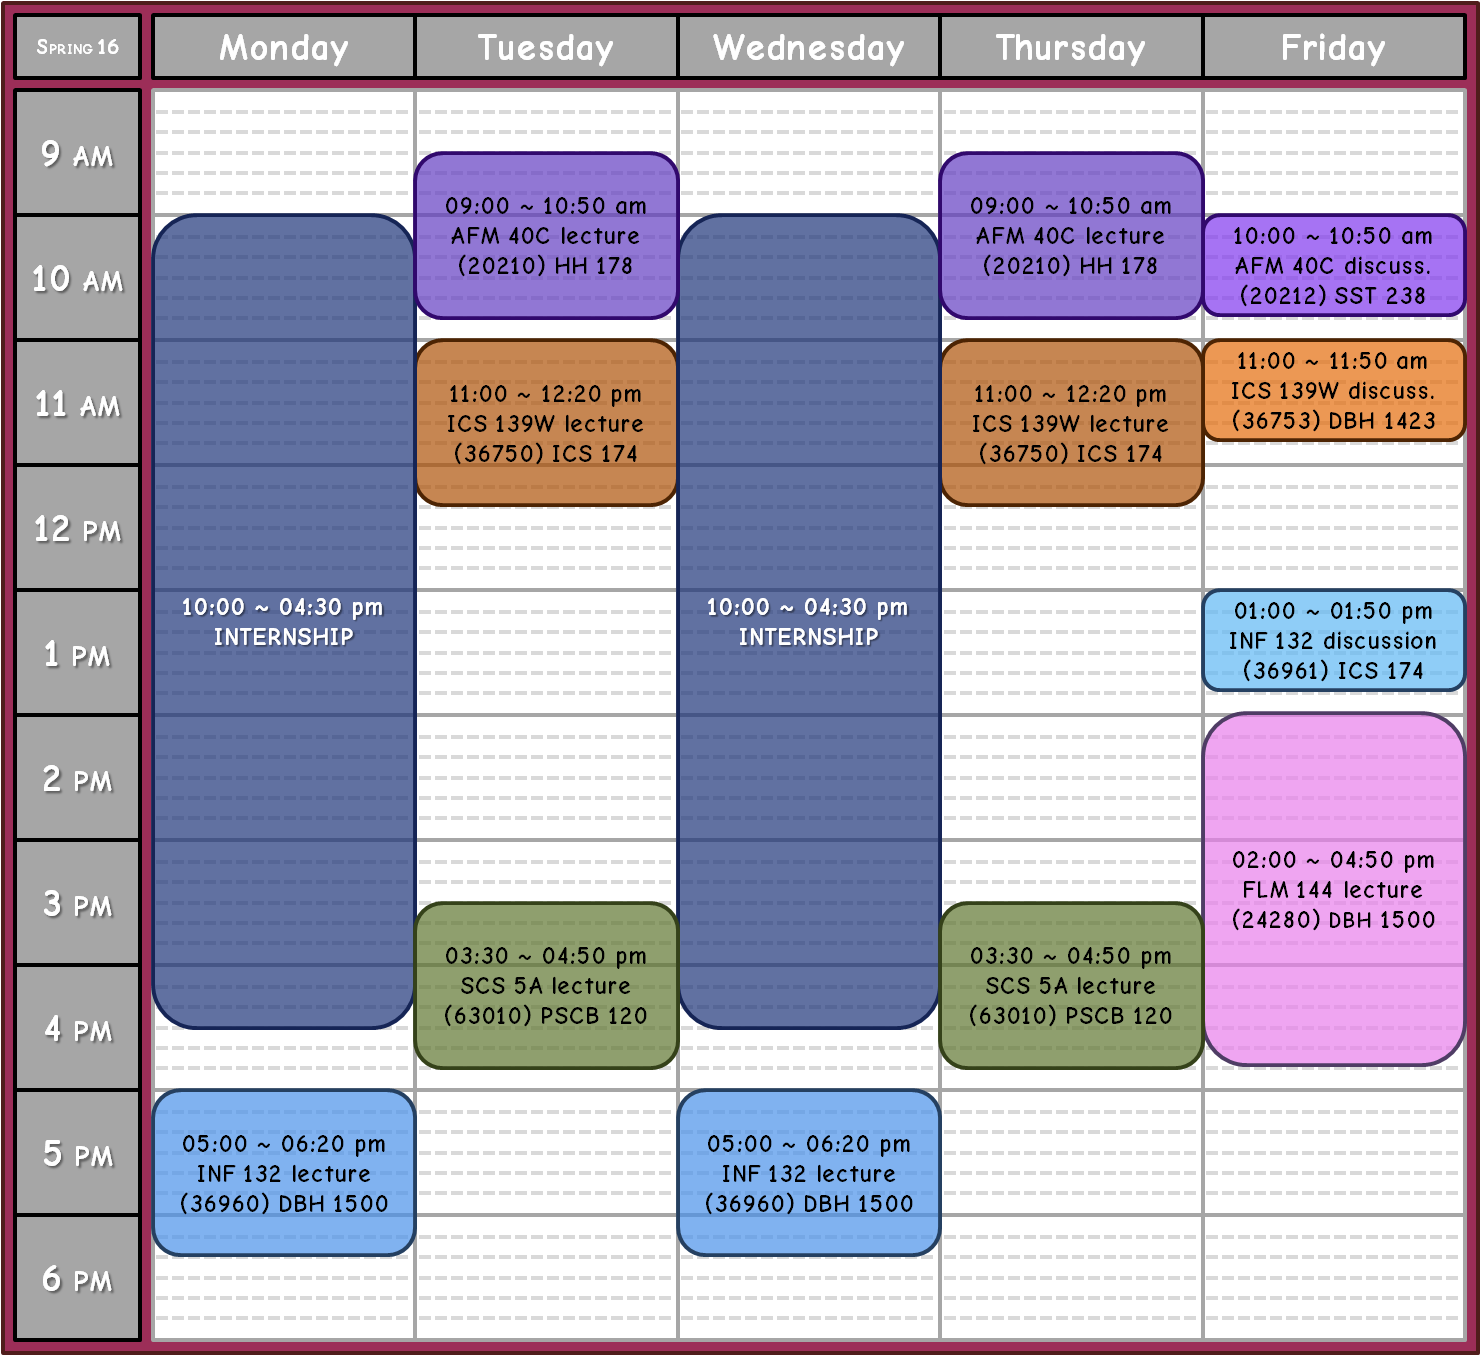
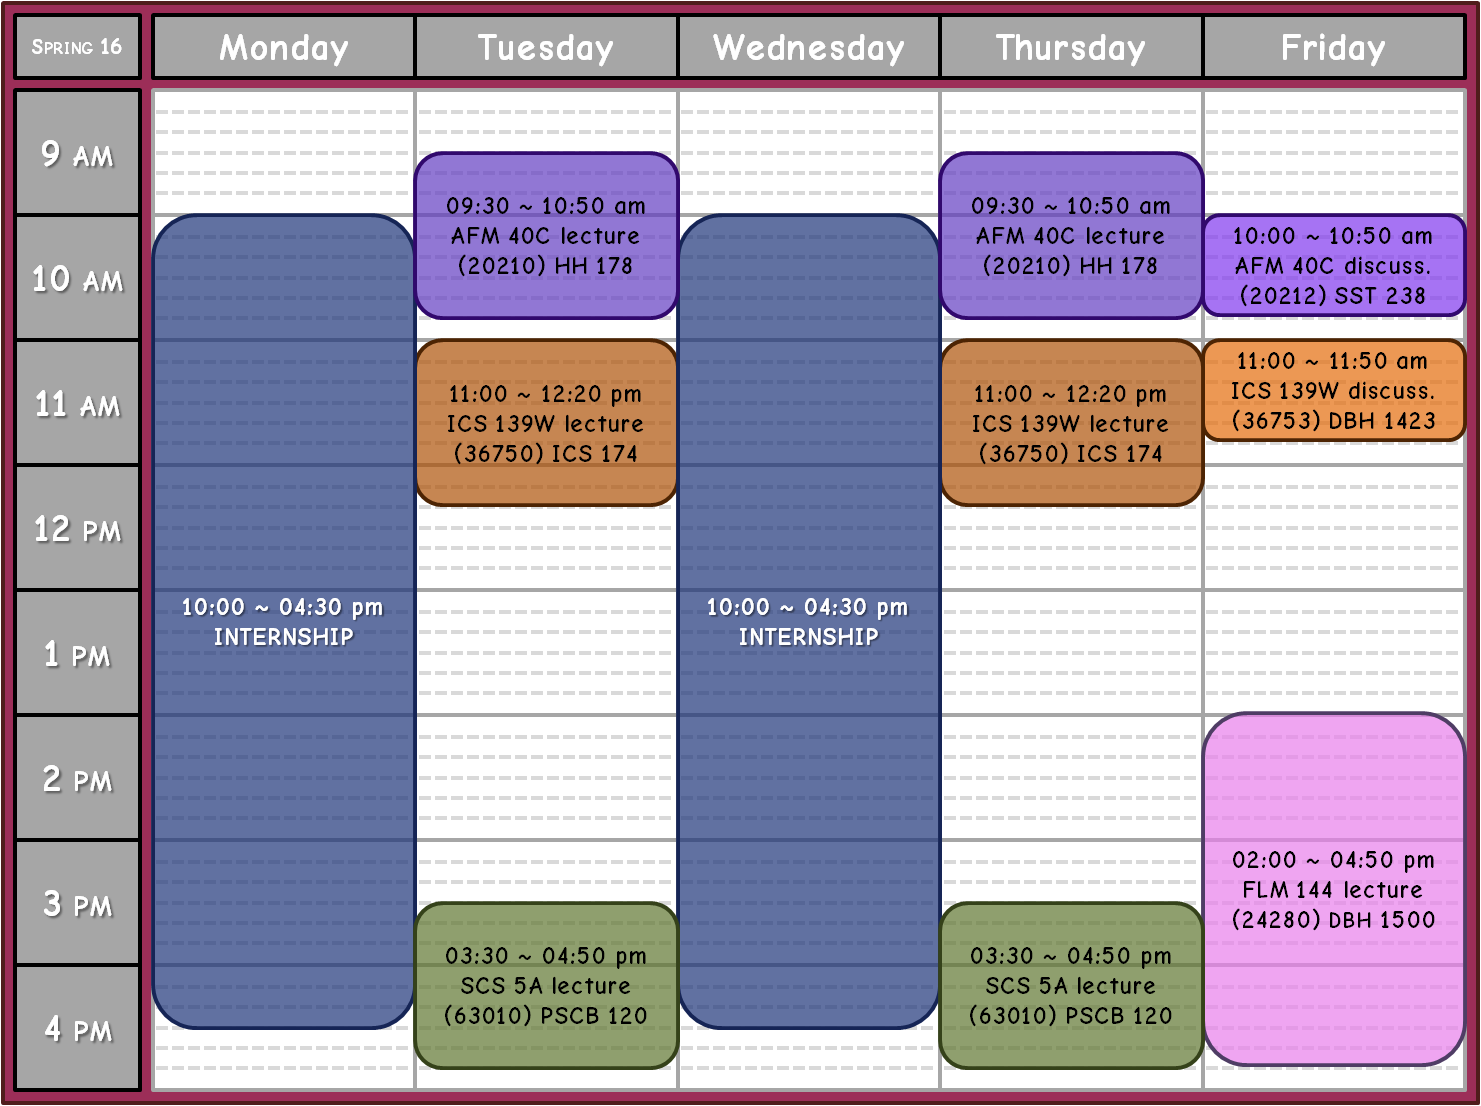
fixed afam time, removed 132, and added links

diff --git a/sc/s16.html b/sc/s16.html
@@ -20,17 +20,13 @@
         <div class="blocks">
           <div class="afm40c">
             <img />
-            
-            <span class="clear"></span>
-          </div>
-          <div class="inf132">
-            <img />
-            <a href="http://www.ics.uci.edu/~kobsa/courses/INF132/16S/syllabus.htm">Website</a>
+            <a href="https://eee.uci.edu/16s/20210">Website</a>
             <span class="clear"></span>
           </div>
           <div class="ics139w">
             <img />
-            
+            <a href="http://www.ics.uci.edu/~rkwang/Spring_2016_ICS139W/139wcoursepage.html">Website</a>
+            <a href="https://piazza.com/class/im8h8gfbt4i3o2">Piazza</a>
             <span class="clear"></span>
           </div>
           <div class="scs5a">
@@ -40,7 +36,7 @@
           </div>
           <div class="flm144">
             <img />
-            
+            <a href="https://eee.uci.edu/16s/24280">Website</a>
             <span class="clear"></span>
           </div>
           <div class="kadho">

diff --git a/sc/css/s16.css b/sc/css/s16.css
@@ -62,19 +62,6 @@ a:link, a:visited
   background-color: rgb(146, 64, 255);
 }
 
-.inf132 img
-{
-  content:url("../img/inf132.png");
-}
-.inf132 a:link, .inf132 a:visited
-{
-  background-color: rgb(73, 145, 233);
-}
-.inf132 a:hover, .inf132 a:active
-{
-  background-color: rgb(113, 181, 255);
-}
-
 .ics139w img
 {
   content:url("../img/ics139w.png");
